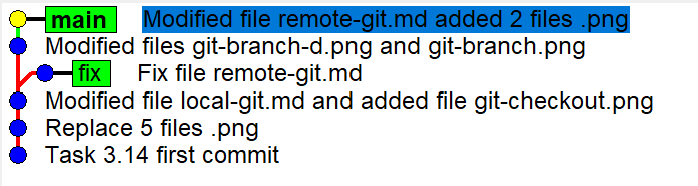
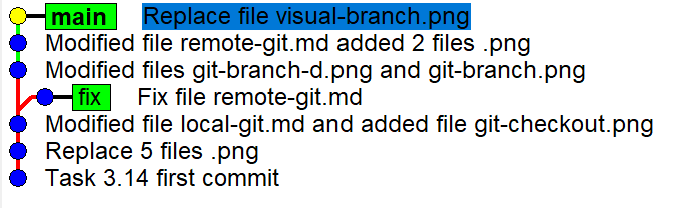
Modified file merge-git.md and files .png

diff --git a/source/merge-git.md b/source/merge-git.md
@@ -20,6 +20,10 @@ git merge fix
 
 > _Слияние текущей ветки main с веткой fix_
 
+![git merge](img/visual-branch-1.png)
+
+![git merge](img/visual-branch-2.png)
+
 ### Перебазирование коммитов одной ветки на другую
 
 ```
